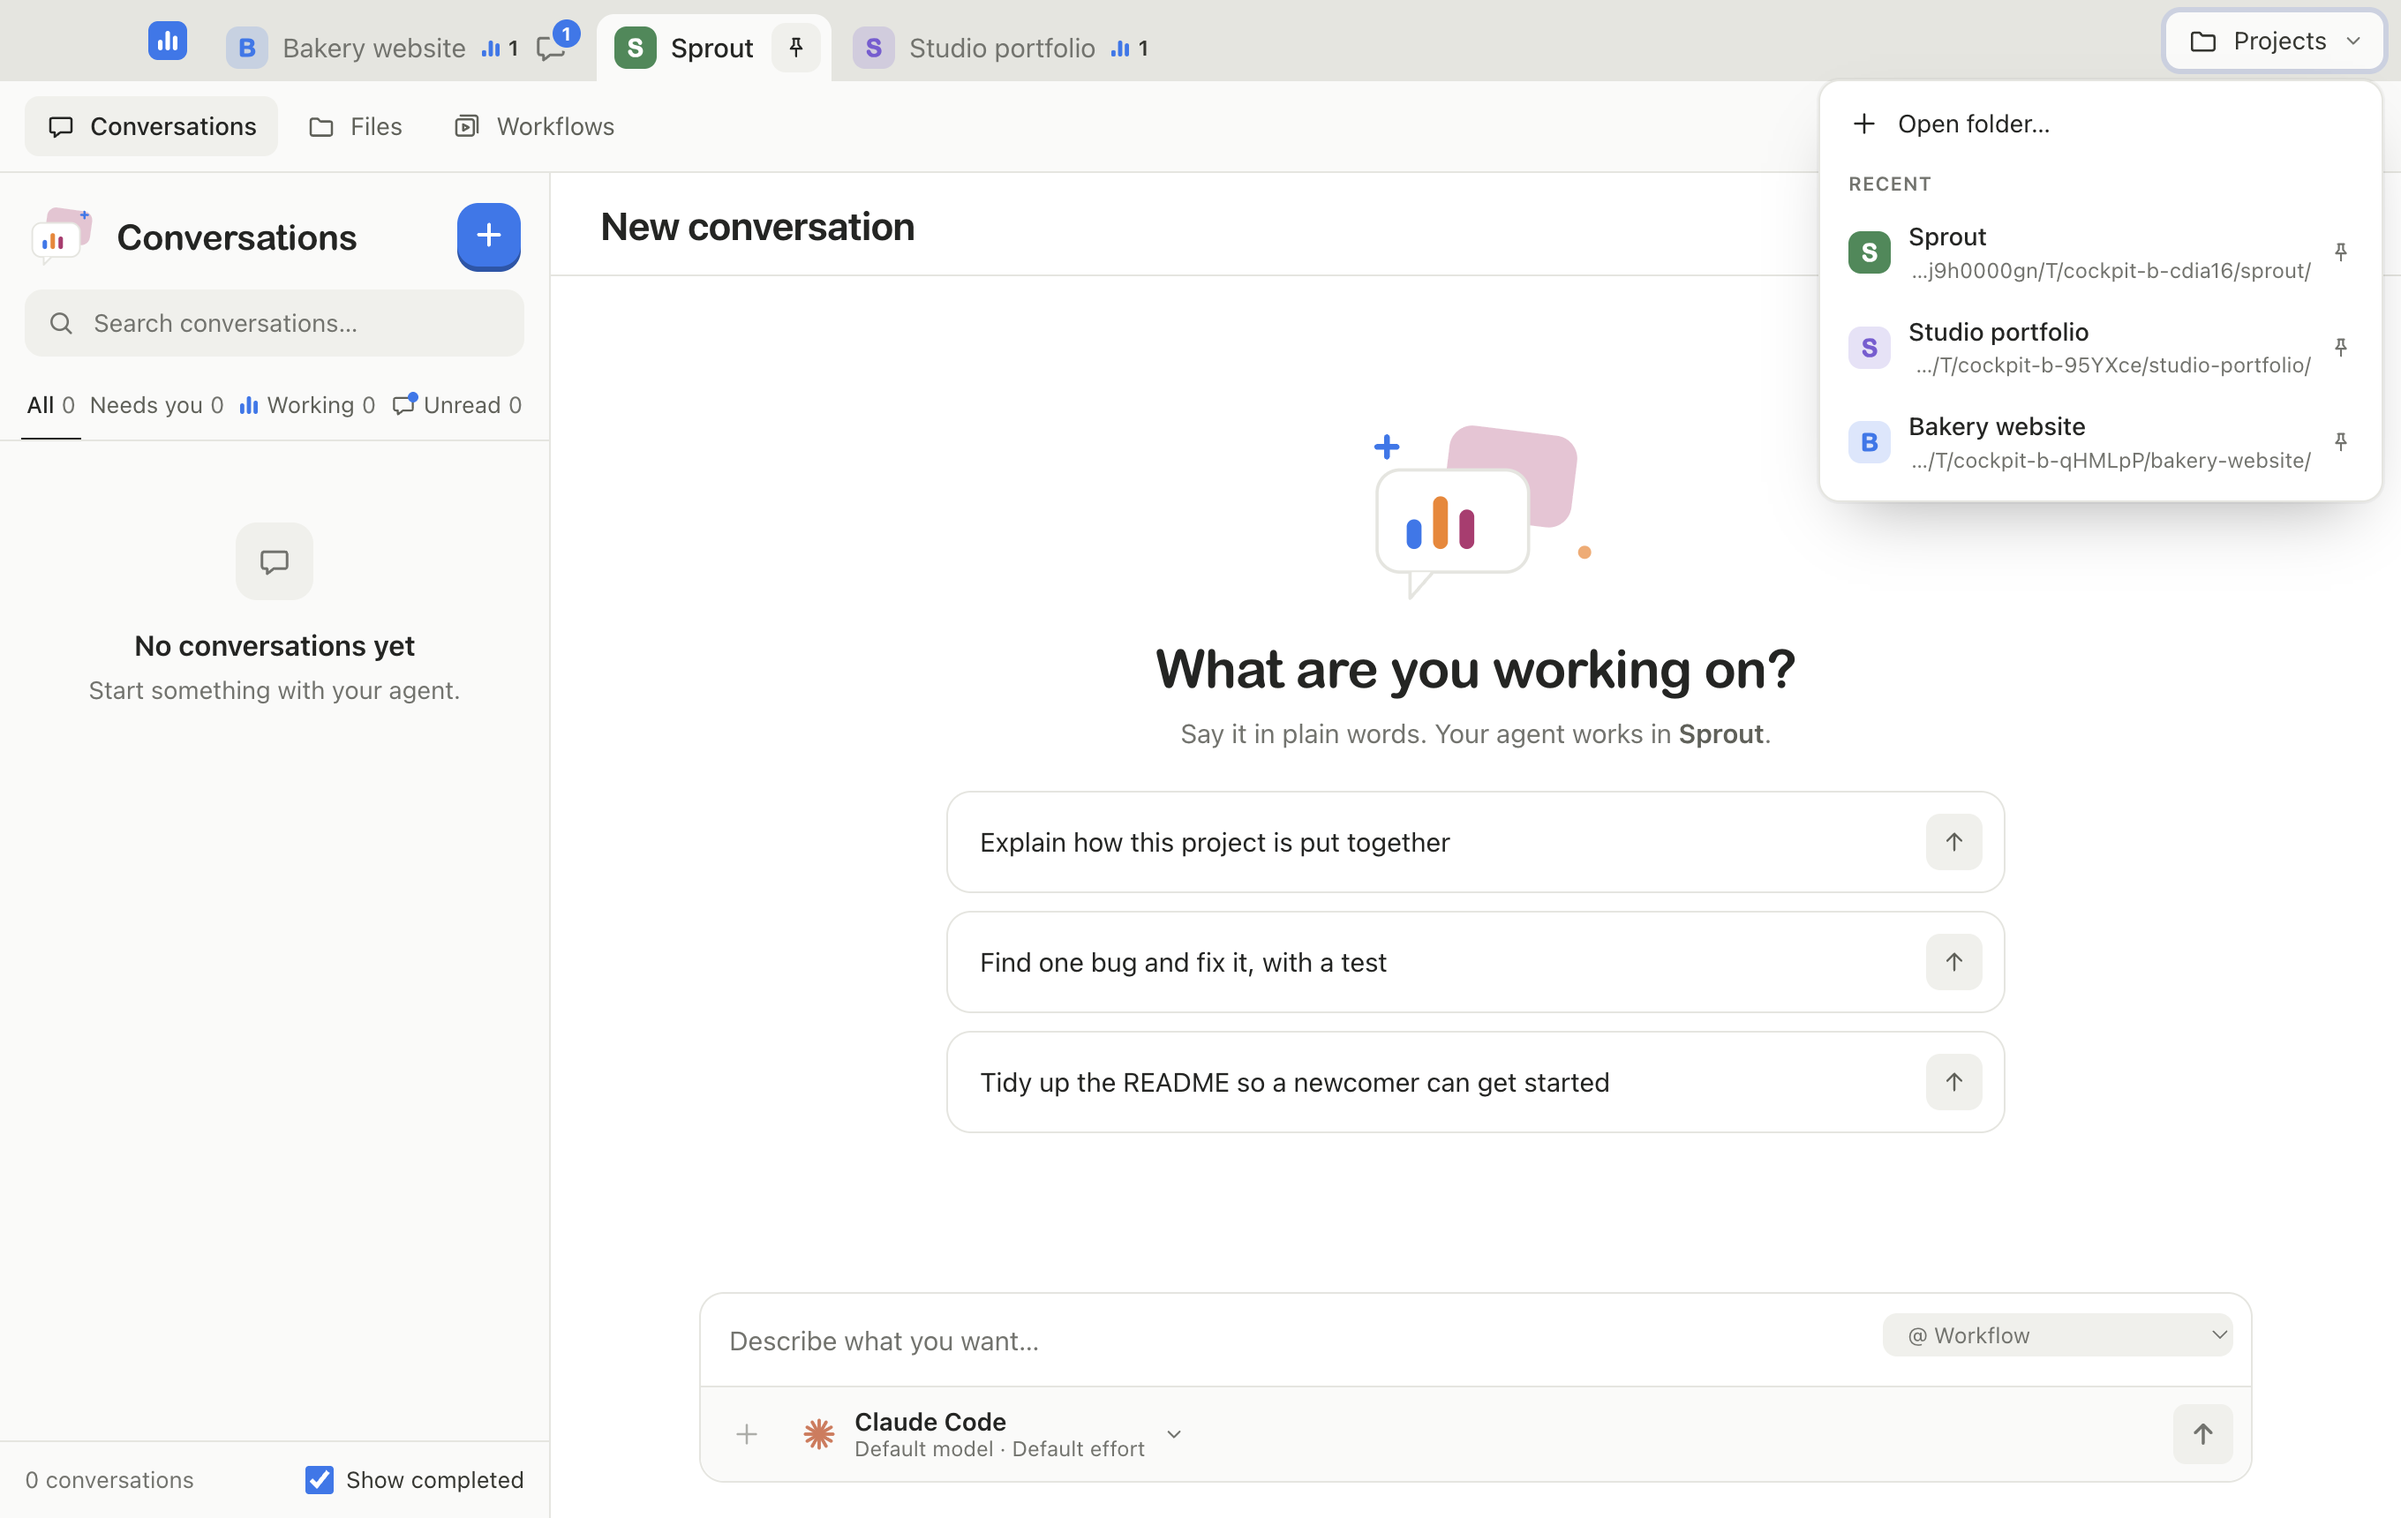
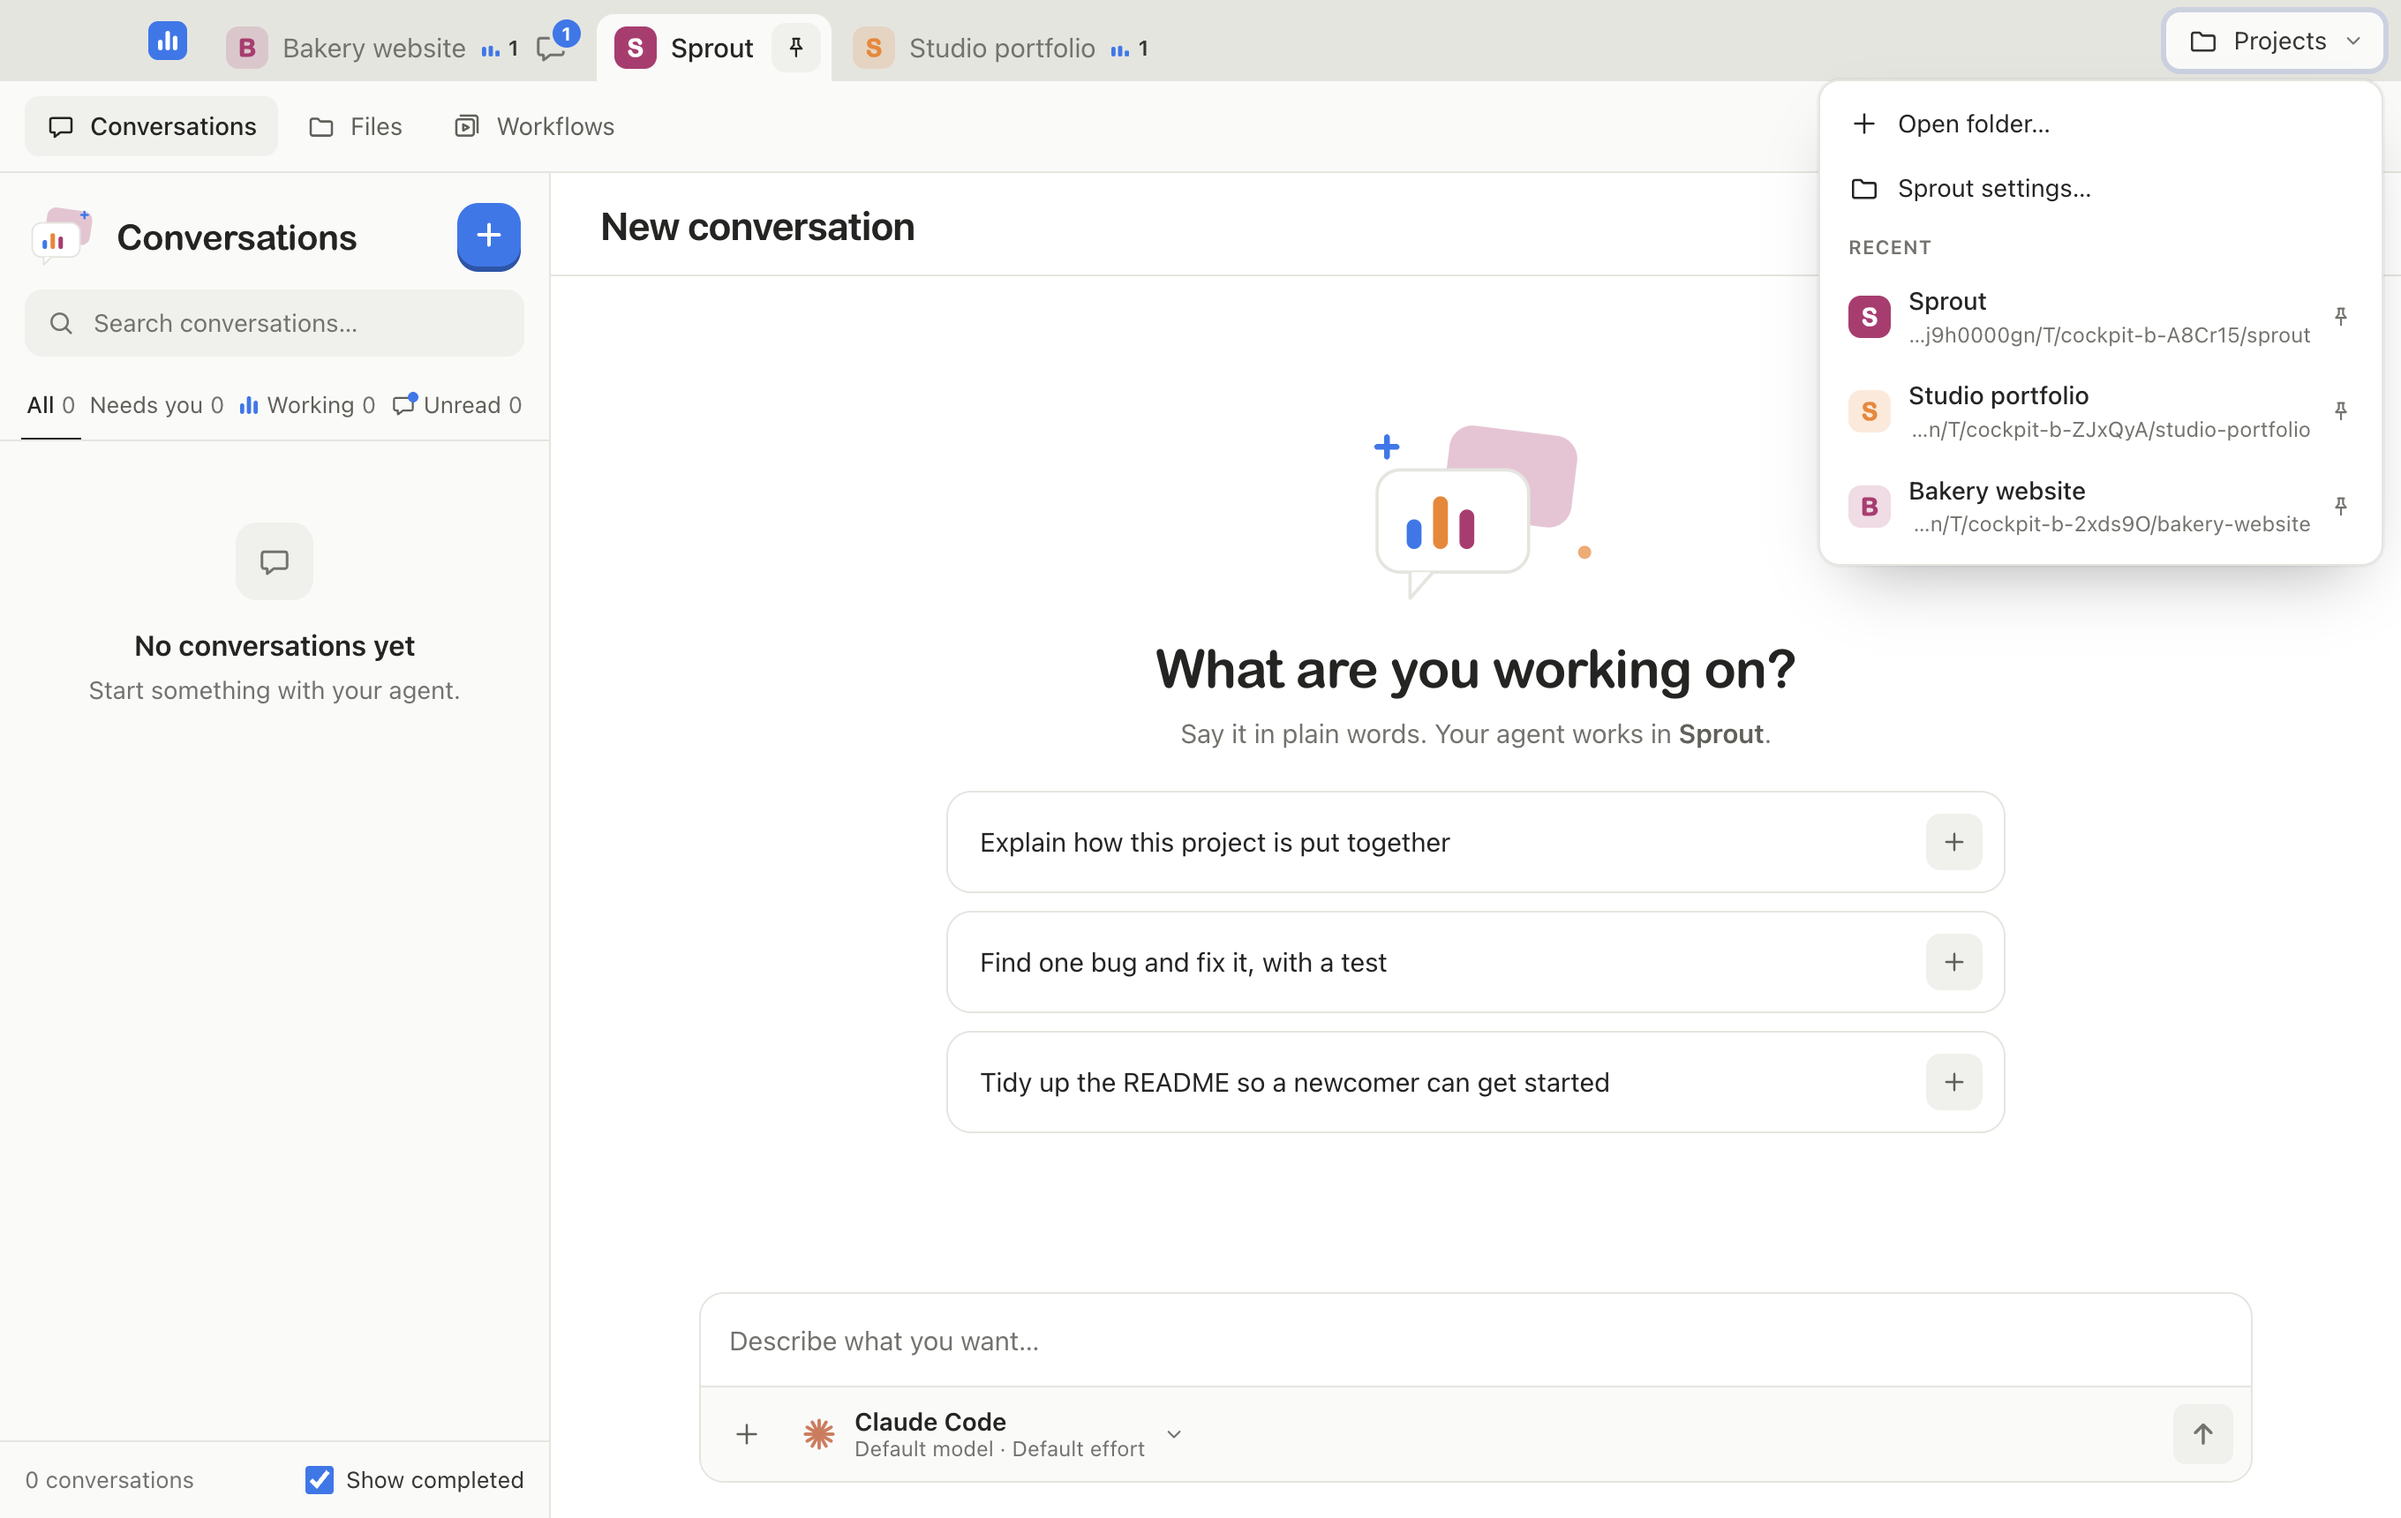
test(proofs): bring b1 and proof:limit up to the current menus
b1 expected four Projects menu items; project settings added a fifth.
proof:limit rebuilt the usage line from an old copy of the labels; it now uses
web/src/usage.ts and formats the reset time (today, tomorrow, later) in the
page's locale. Both failed on a tomorrow reset and the settings item, not on
a regression.

diff --git a/scripts/proof-limit.ts b/scripts/proof-limit.ts
@@ -10,12 +10,13 @@ import { tmpdir } from 'node:os'
 import { join } from 'node:path'
 import type { Page } from 'playwright-core'
 import { checker, launchPackagedApp, PROOF_DIR, ROOT } from './lib/launch-app.ts'
+import { statusLabel, windowLabel } from '../web/src/usage.ts'
 import { chooseAgent, headStatus, messageBox, openProject, startConversation } from './lib/ui.ts'
 
 const codexModel = process.env.COCKPIT_CODEX_MODEL ?? 'gpt-5.6-luna'
 const { check, finish } = checker()
 
-interface UsageEvent { kind: 'usage'; status: string; resetsAt?: number }
+interface UsageEvent { kind: 'usage'; status: string; limitType: string; usedPercent?: number; resetsAt?: number }
 interface StoredEvent { event: { kind: string; text?: string; status?: string; resetsAt?: number; to?: string } }
 interface Detail { meta: { id: string; settings: { agent: string } }; status: string; events: StoredEvent[] }
 interface Summary { meta: { id: string; title: string } }
@@ -34,13 +35,24 @@ async function waitUntil<T>(page: Page, what: string, read: () => Promise<T | un
   }
 }
 
-/** The menu line ThreadMenu renders for a usage event, computed in the page's own locale. */
+/**
+ * The menu line ThreadMenu renders for a usage event. Labels come from web/src/usage.ts; the
+ * reset time is formatted in the page's own locale, mirroring formatWhen/resetLabel there
+ * (today → bare time, tomorrow → "tomorrow <time>", later → weekday and date).
+ */
 async function expectedUsageLine(page: Page, usage: UsageEvent): Promise<string> {
-  const labels: Record<string, string> = { allowed: 'Within your limit', allowed_warning: 'Getting close to your limit', rejected: 'Limit reached' }
-  const time = usage.resetsAt
-    ? await page.evaluate((s) => new Date(s * 1000).toLocaleTimeString([], { hour: 'numeric', minute: '2-digit' }), usage.resetsAt)
-    : undefined
-  return `5-hour usage: ${labels[usage.status] ?? usage.status}${time ? `, resets ${time}` : ''}`
+  const reset = usage.resetsAt === undefined ? undefined : await page.evaluate((seconds) => {
+    const when = new Date(seconds * 1000)
+    const now = new Date()
+    const tomorrow = new Date()
+    tomorrow.setDate(tomorrow.getDate() + 1)
+    const time = when.toLocaleTimeString([], { hour: 'numeric', minute: '2-digit' })
+    const text = when.toDateString() === now.toDateString() ? time
+      : when.toDateString() === tomorrow.toDateString() ? `tomorrow ${time}`
+      : `${when.toLocaleDateString([], { weekday: 'short', month: 'short', day: 'numeric' })}, ${time}`
+    return when > now ? `resets ${text}` : `reset at ${text}; no newer report`
+  }, usage.resetsAt)
+  return `${windowLabel(usage.limitType)} usage: ${statusLabel(usage)}${reset ? `, ${reset}` : ''}`
 }
 
 const lastUsage = (detail: Detail): UsageEvent | undefined =>

diff --git a/scripts/proof-b.ts b/scripts/proof-b.ts
@@ -108,7 +108,9 @@ async function b1(): Promise<void> {
 
   await page.getByRole('button', { name: 'Projects' }).click()
   const menuItems = await page.getByRole('menu', { name: 'Projects' }).getByRole('menuitem').allTextContents()
-  check('Projects menu offers Open folder… and all three projects', menuItems.length === 4 && menuItems[0]?.includes('Open folder') === true, `${menuItems.length} items`)
+  check('Projects menu offers Open folder…, project settings and all three projects',
+    menuItems.length === 5 && menuItems[0]?.includes('Open folder') === true && menuItems[1]?.includes('settings') === true,
+    `${menuItems.length} items`)
   await page.screenshot({ path: join(PROOF_DIR, 'phase-B1-projects-menu.png') })
   await page.keyboard.press('Escape')
 
